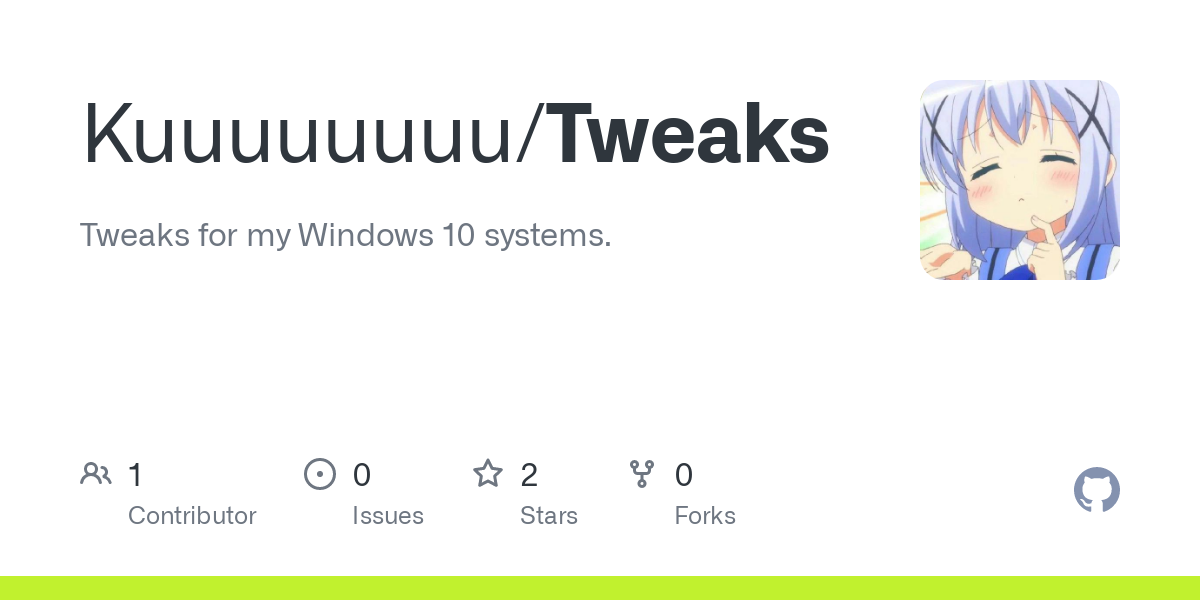
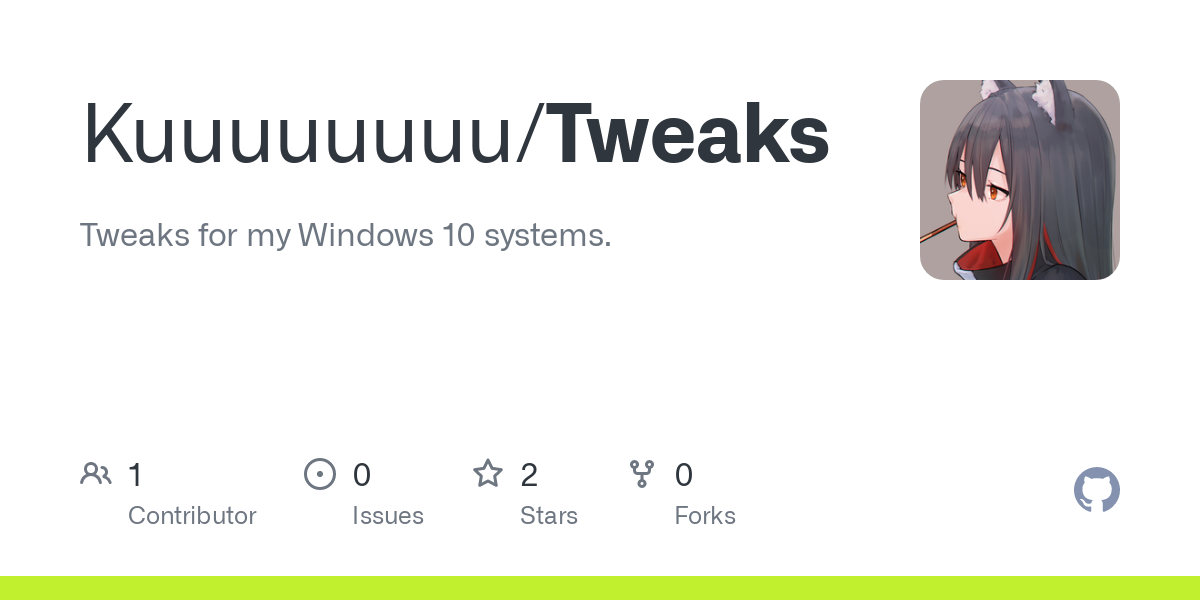
Update assets

Changed region(s): [[0.74, 0.12, 0.9558, 0.48]]

diff --git a/README.md b/README.md
@@ -4,7 +4,7 @@ Powered by Go and GitHub Actions 🚀
 
 <br/>
 
-Last Updated: 2024-03-30 13:03:09
+Last Updated: 2024-03-30 16:02:57
 
 [![Task Status](https://github.com/Kuuuuuuuu/assets/actions/workflows/main.yml/badge.svg)](https://github.com/Kuuuuuuuu/assets/actions/workflows/main.yml)
 
